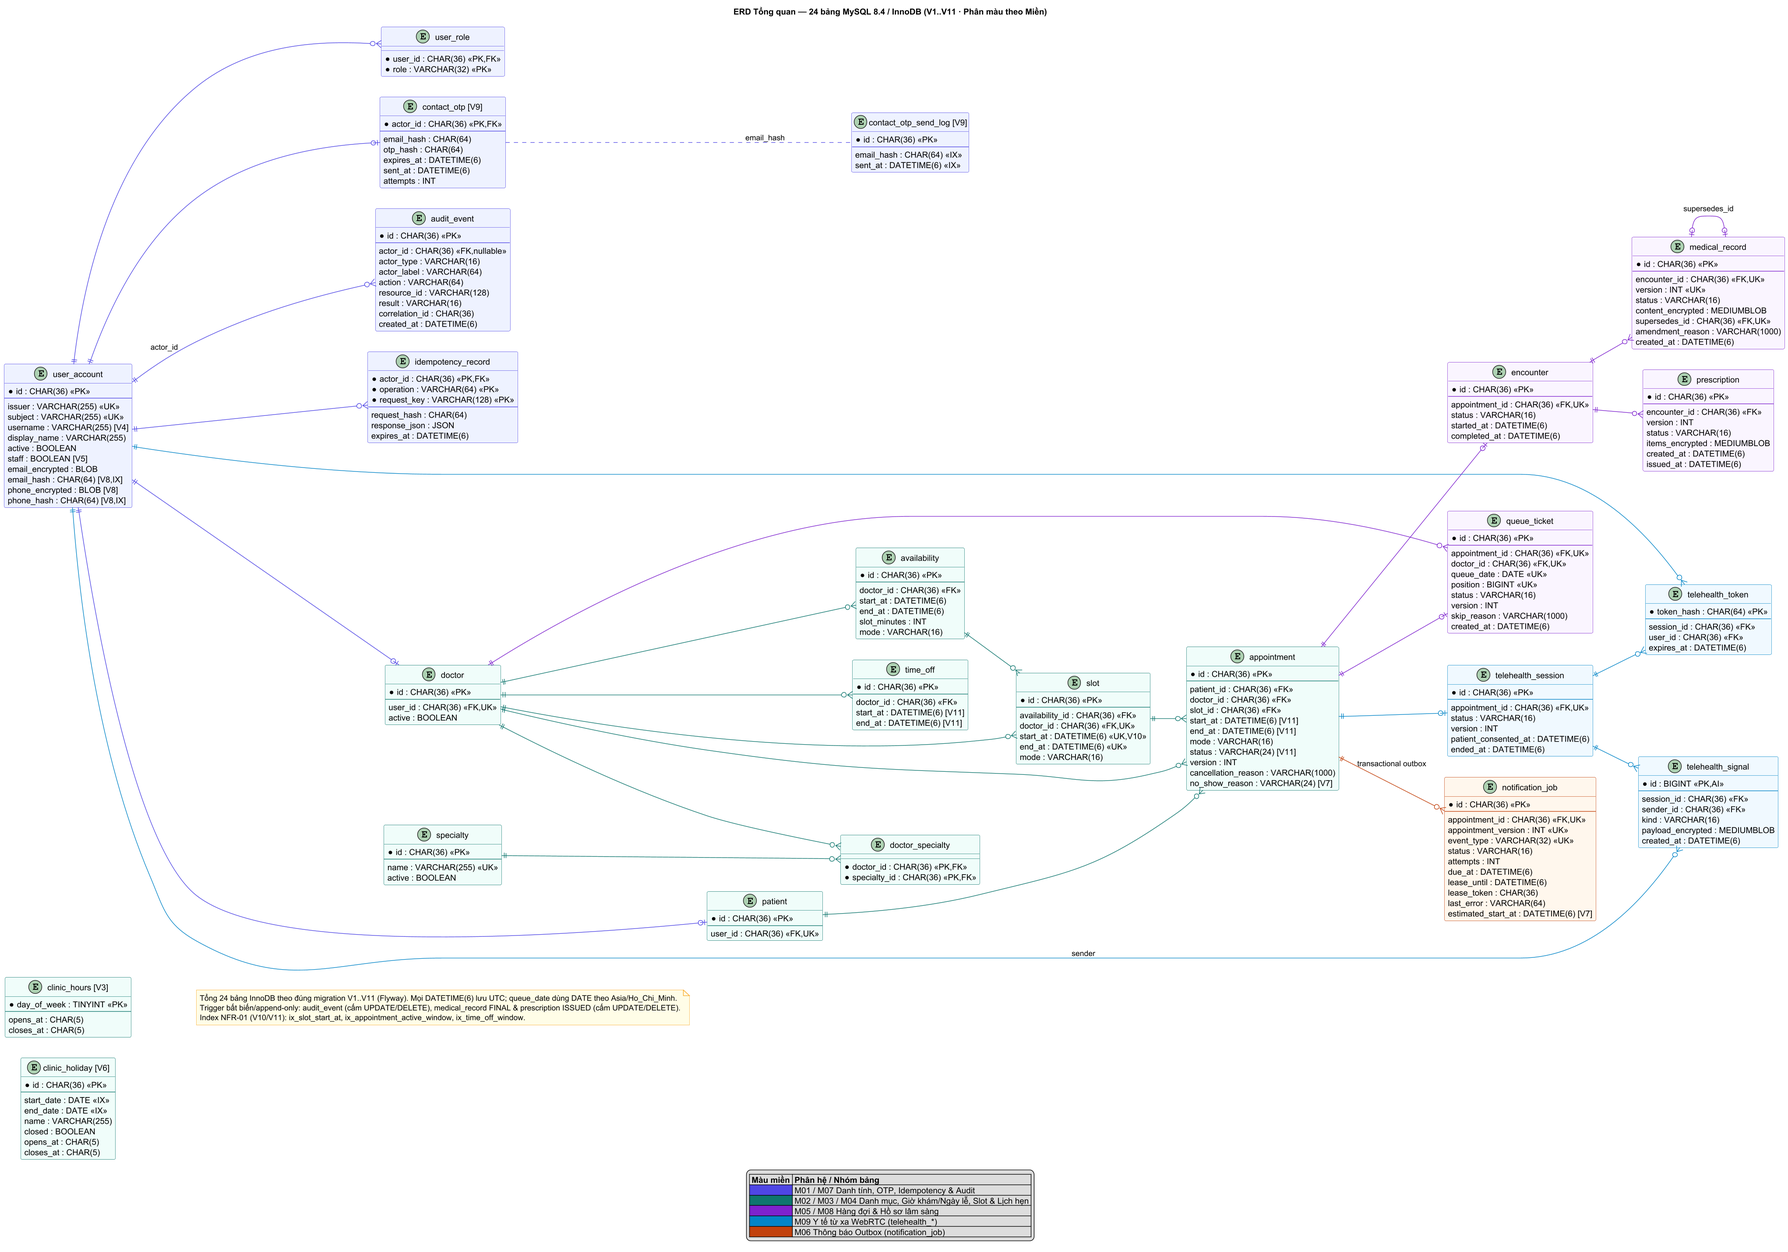
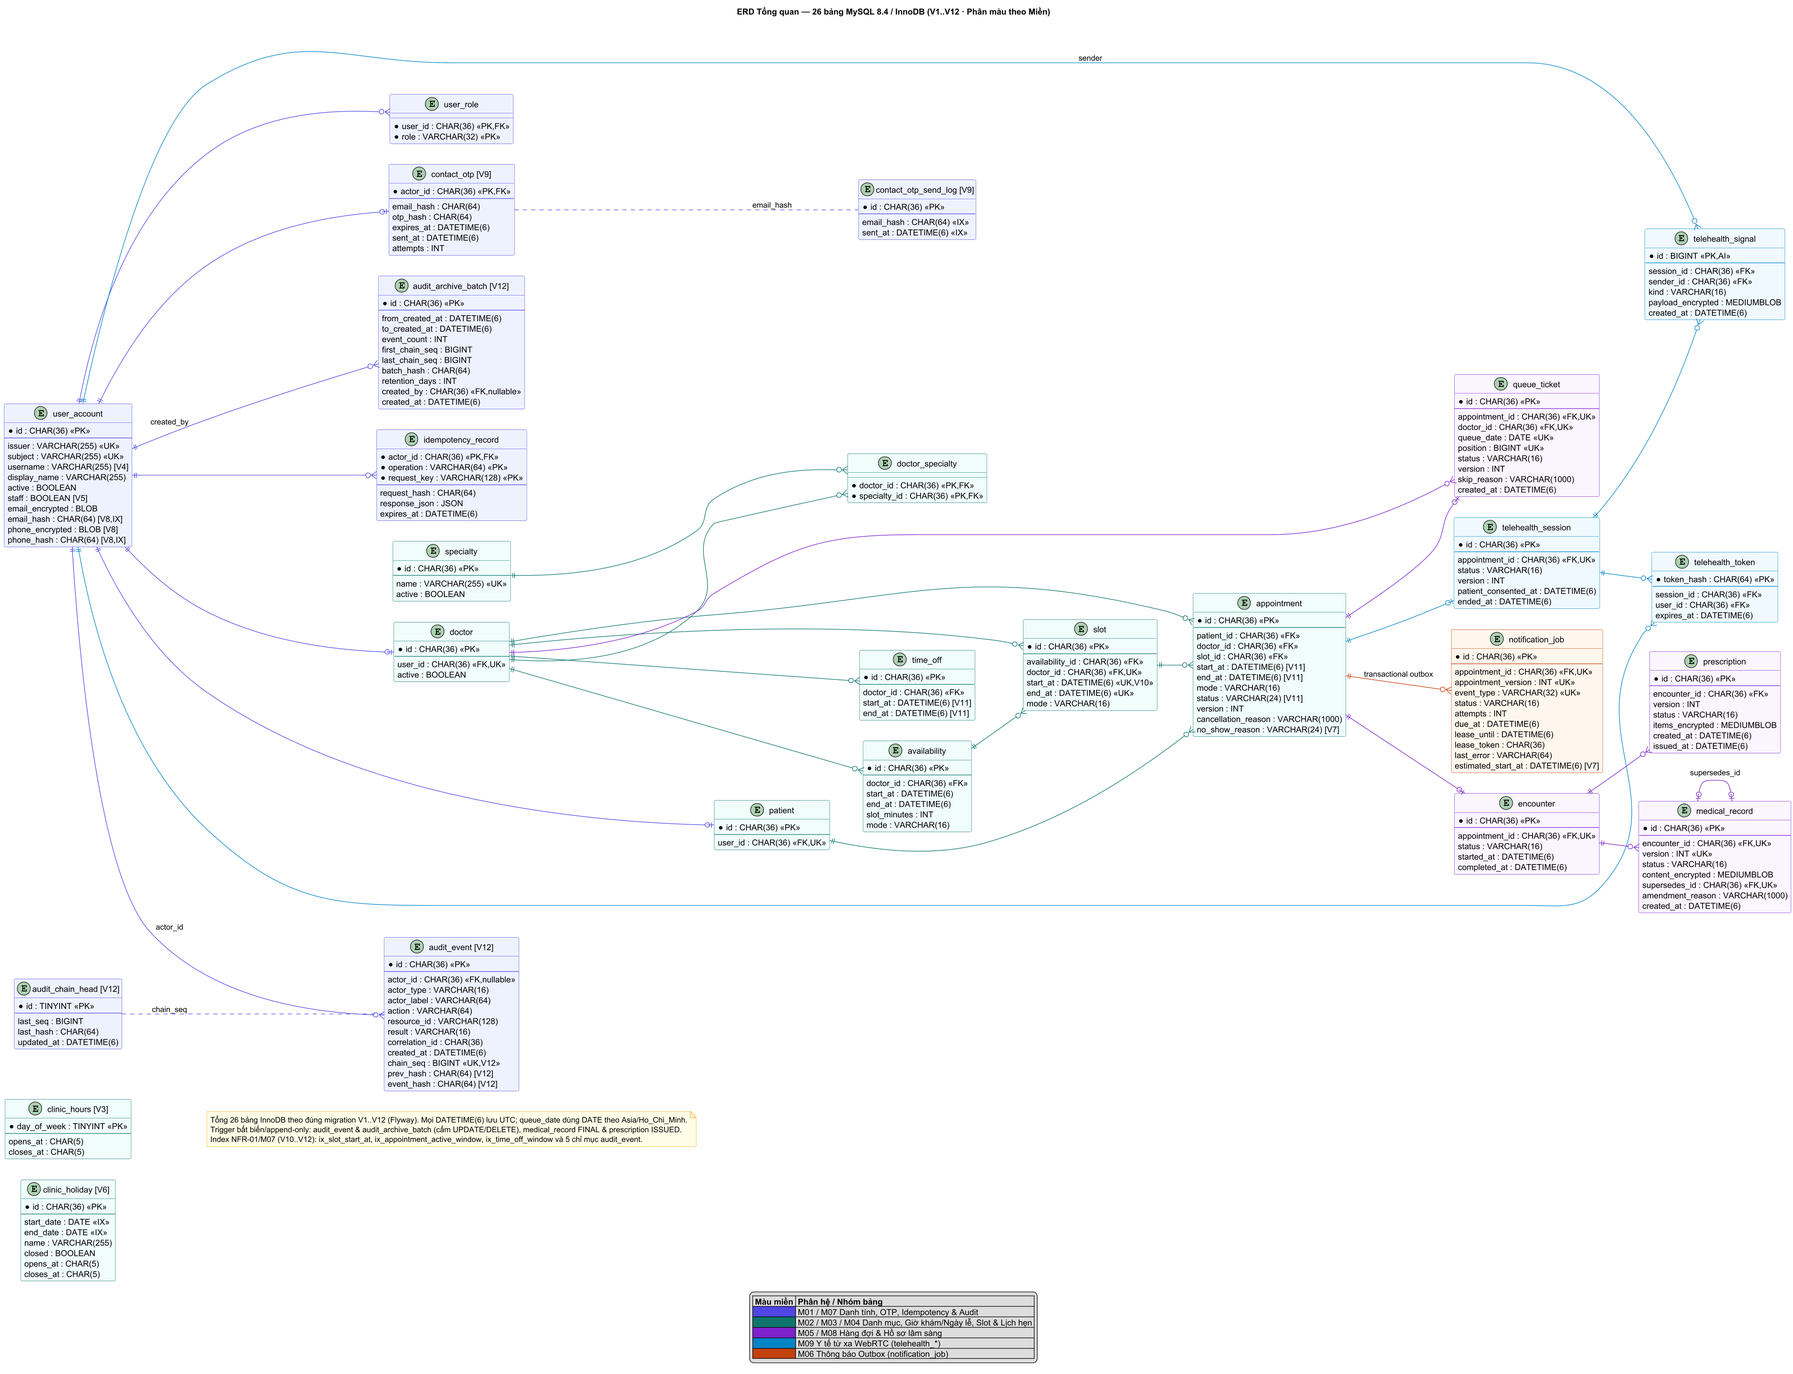
Dong bo so do ERD/Class/Sequence V12 va cap nhat so lieu kiem toan a2b151e

diff --git a/sections/testing.js b/sections/testing.js
@@ -1,4 +1,4 @@
-/* sections/testing.js — Bảng PCL N/B/A, Agent Catalog, Benchmark NFR-01 & Ma trận truy vết (main@327a553, 22/11/2026) */
+/* sections/testing.js — Bảng PCL N/B/A, Agent Catalog, Benchmark NFR-01 & Ma trận truy vết (đồng bộ SE-project-main, 23/11/2026) */
 
 window.SECTION_TESTING = `
 <section class="section" id="pcl">
@@ -6,14 +6,14 @@ window.SECTION_TESTING = `
     <span>📏</span>
     <div><strong>Chuẩn &amp; Kỹ thuật kiểm thử áp dụng:</strong> Phân cấp &amp; truy vết theo <strong>ISO/IEC/IEEE 29119</strong>; phân loại ca theo chuẩn <strong>PCL (<code>N / B / A</code>)</strong>; cấu trúc unit test <strong>Arrange–Act–Assert (AAA)</strong>; tiêu chí NFR tham chiếu <strong>ISO/IEC 25010:2023</strong>, <strong>OWASP ASVS 5.0 / WSTG</strong> và quét tự động <strong>WCAG 2.2 AA</strong> (<code>axe-core</code>).</div>
   </div>
-  <div class="sh"><span class="sh-ic">🧪</span><div class="sh-txt"><h2>Bảng PCL — Kiểm thử theo chuẩn N/B/A</h2><p>30 ca PCL (<code>N</code>=Normal · <code>B</code>=Boundary · <code>A</code>=Abnormal) · CI <code>#43</code> (<code>7c13276</code>) đạt 86/86 test Backend + cổng <code>jacoco:check</code> &ge;60% + 79/79 Vitest</p></div></div>
+  <div class="sh"><span class="sh-ic">🧪</span><div class="sh-txt"><h2>Bảng PCL — Kiểm thử theo chuẩn N/B/A</h2><p>30 ca PCL (<code>N</code>=Normal · <code>B</code>=Boundary · <code>A</code>=Abnormal) · CI xanh 95+ test Backend (MySQL 8.4 + <code>V1..V12</code> + <code>jacoco:check</code> &ge;60%) + 110 Vitest (28 file)</p></div></div>
 
   <div class="sum-bar" style="margin-bottom:16px">
     <div class="sum-item"><div class="n" style="color:var(--ok)">30 / 30</div><div class="l">Ca PCL Đạt ✓</div></div>
-    <div class="sum-item"><div class="n">86</div><div class="l">Backend tests (MySQL 8.4)</div></div>
-    <div class="sum-item"><div class="n">79 / 22</div><div class="l">Frontend Vitest / File</div></div>
+    <div class="sum-item"><div class="n">95+</div><div class="l">Backend tests (MySQL 8.4)</div></div>
+    <div class="sum-item"><div class="n">110 / 28</div><div class="l">Frontend Vitest / File</div></div>
     <div class="sum-item"><div class="n">17</div><div class="l">Playwright (scan/rtc/auth)</div></div>
-    <div class="sum-item"><div class="n" style="color:var(--ok)">24 / 24</div><div class="l">Sổ test Agent PASS</div></div>
+    <div class="sum-item"><div class="n" style="color:var(--ok)">38</div><div class="l">Ca trong Sổ test Agent</div></div>
     <div class="sum-item"><div class="n" style="color:var(--ok)">16 / 16</div><div class="l">NFR Đạt</div></div>
     <div class="sum-item"><div class="n" style="color:var(--ok)">9,37 ms</div><div class="l">NFR-01 Overall p95</div></div>
   </div>
@@ -55,7 +55,7 @@ window.SECTION_TESTING = `
       </tbody>
     </table>
   </div>
-  <p style="font-size:12px;color:var(--txt3);margin-top:12px"><strong style="color:var(--txt2)">Tóm tắt:</strong> 30/30 ca PCL đều đạt (0 lỗi). Toàn bộ 86 test Backend chạy trên MySQL 8.4 Testcontainers và đạt cổng JaCoCo <code>LINE &ge;60%</code>, <code>BRANCH &ge;60%</code> tại CI <code>#43</code>.</p>
+  <p style="font-size:12px;color:var(--txt3);margin-top:12px"><strong style="color:var(--txt2)">Tóm tắt:</strong> 30/30 ca PCL đều đạt (0 lỗi). Toàn bộ 95+ test Backend chạy trên MySQL 8.4 Testcontainers (<code>V1..V12</code>) và đạt cổng JaCoCo <code>LINE &ge;60%</code>, <code>BRANCH &ge;60%</code>.</p>
 </section>
 
 <section class="section" id="nfr-01-bench">
@@ -75,7 +75,7 @@ window.SECTION_TESTING = `
 </section>
 
 <section class="section" id="agent-suite">
-  <div class="sh"><span class="sh-ic">📑</span><div class="sh-txt"><h2>Bộ kiểm thử mở rộng &amp; Xác minh thực địa (<code>AGENT-TC-001..023</code>, <code>TC-N05</code>)</h2><p>24/24 ca trong sổ kiểm thử đều đạt trạng thái <code>PASS</code> sau CI <code>#43</code> (<code>7c13276</code>) và NFR-01 Run <code>44931759747</code> (<code>12740a9</code>)</p></div></div>
+  <div class="sh"><span class="sh-ic">📑</span><div class="sh-txt"><h2>Bộ kiểm thử mở rộng &amp; Xác minh thực địa (<code>AGENT-TC-001..038</code>, <code>TC-N05</code>)</h2><p>Tổng hợp nhóm ca kiểm thử mở rộng trong sổ kiểm thử agent (đồng bộ 23/11/2026, gồm nâng cấp kiểm toán <code>V12</code> và quét Playwright/<code>axe</code> trên <code>/audit</code>)</p></div></div>
   <div class="tbl-wrap">
     <table>
       <thead><tr><th>Nhóm ca kiểm thử</th><th>Mã ca</th><th>Công cụ / Môi trường</th><th>Nội dung &amp; Kết quả xác minh gần nhất</th><th>Trạng thái</th></tr></thead>
@@ -87,14 +87,14 @@ window.SECTION_TESTING = `
         <tr><td><strong>Guard &amp; Post-Deploy Smoke</strong></td><td><code>AGENT-TC-017</code>, <code>018</code></td><td>Vitest + Python + GitHub Actions</td><td><code>guard-redirect.test.tsx</code> (2/2) chuyển về trang chủ vai trò mới khi <code>fromSignin=true</code>; <code>verify-live-demo.py</code> kiểm tra 6/6 chốt HTTPS + OIDC + WebRTC ICE/STUN.</td><td><span class="badge bstat-ok">✓ PASS</span></td></tr>
         <tr><td><strong>TURN/WebRTC, Business Rules &amp; Backup</strong></td><td><code>AGENT-TC-019..021</code></td><td>Python + JUnit + MySQL 8.4 <code>mysqldump</code></td><td>Cấu hình <code>coturn</code> quota <code>4/32</code> &amp; STUN 3478 UDP/TCP phản hồi <code>0x0101</code>; <code>BusinessRulesUnitTest</code> (5/5); <code>BackupRestoreIntegrationTest</code> restore &amp; kiểm FK + AES-GCM (CI <code>#43</code>).</td><td><span class="badge bstat-ok">✓ PASS</span></td></tr>
         <tr><td><strong>Tải chuẩn NFR-01 &amp; Usability</strong></td><td><code>AGENT-TC-022..023</code>, <code>TC-N05</code></td><td>GitHub Actions + MySQL 8.4 + k6 · Điện thoại thật</td><td><code>Nfr01LoadHarnessTests</code> (4/4); k6 50 VU &times; 15m đạt <code>p95 = 9,37 ms</code>; <code>TC-N05</code> nhóm thử thực tế trên điện thoại (không lưu biên bản bấm giờ riêng).</td><td><span class="badge bstat-ok">✓ PASS</span></td></tr>
-        <tr><td><strong>Nâng cấp Kiểm toán M07 (3 ưu tiên)</strong></td><td><code>AGENT-TC-037..038</code></td><td>JUnit + Mockito + Vitest + RTL (<code>AuditHardeningUnitTest</code>, <code>audit-page.test.tsx</code>)</td><td>Tách khóa <code>K_audit</code>, chuỗi băm <code>HMAC-SHA256-CHAIN-V1</code> phát hiện đủ 4 lỗi <code>TAMPERED</code>, lọc server-side, phân trang con trỏ chống trôi trang, nhãn tác nhân an toàn, chuẩn hóa hành động VN, Cách 1 rút gọn UUID 2 cột, CSV BOM chống formula injection và niêm phong lô <code>audit_archive_batch</code>.</td><td><span class="badge bstat-ok">✓ PASS</span></td></tr>
+        <tr><td><strong>Nâng cấp Kiểm toán M07 (3 ưu tiên)</strong></td><td><code>AGENT-TC-037..038</code></td><td>JUnit + Mockito + Vitest + RTL + Playwright/<code>axe</code> (<code>AuditHardeningUnitTest</code>, <code>audit-page.test.tsx</code>)</td><td>Tách khóa <code>K_audit</code>, chuỗi băm <code>HMAC-SHA256-CHAIN-V1</code> xác minh trong snapshot <code>REPEATABLE READ</code> phát hiện đủ 4 lỗi <code>TAMPERED</code> (gồm <code>chain_seq &le; 0</code>) và cảnh báo khi <code>truncated</code>, lọc server-side kể cả từ khóa tiếng Việt, phân trang con trỏ chống trôi trang, nhãn tác nhân an toàn, chuẩn hóa hành động VN, Cách 1 rút gọn UUID 2 cột, CSV BOM đủ <code>Mã sự kiện (UUID)</code> chống formula injection, niêm phong tuần tự dưới khóa <code>FOR UPDATE</code> vào <code>audit_archive_batch</code> và quét Playwright/<code>axe</code> đạt 0 tràn ngang &amp; 0 vi phạm.</td><td><span class="badge bstat-ok">✓ PASS</span></td></tr>
       </tbody>
     </table>
   </div>
 </section>
 
 <section class="section" id="trace">
-  <div class="sh"><span class="sh-ic">🔗</span><div class="sh-txt"><h2>Ma trận truy vết tổng hợp (27 FR &rarr; UC &rarr; NFR &rarr; Bằng chứng)</h2><p>Đối chiếu <code>docs/requirements/traceability-matrix.md</code> tại <code>main@327a553</code> · Xem chi tiết tra cứu tại trang <a href="requirements.html#review-matrix">Yêu cầu</a></p></div></div>
+  <div class="sh"><span class="sh-ic">🔗</span><div class="sh-txt"><h2>Ma trận truy vết tổng hợp (27 FR &rarr; UC &rarr; NFR &rarr; Bằng chứng)</h2><p>Đối chiếu <code>docs/requirements/traceability-matrix.md</code> (23/11/2026) · Xem chi tiết tra cứu tại trang <a href="requirements.html#review-matrix">Yêu cầu</a></p></div></div>
   <div class="tbl-wrap">
     <table>
       <thead><tr><th>FR</th><th>UC</th><th>Thao tác API chính</th><th>NFR liên quan</th><th>Tình trạng &amp; Bằng chứng</th></tr></thead>

diff --git a/sections/diagrams.js b/sections/diagrams.js
@@ -99,8 +99,8 @@ window.SECTION_DIAGRAMS = `
       <div class="ic-label">UC-15/16 Thông báo bất đồng bộ (<code>notification_job</code>)</div>
     </div>
     <div class="img-card" onclick="lb('assets/design/sequence-diagrams/audit-fail-closed.png')">
-      <img src="assets/design/sequence-diagrams/audit-fail-closed.png" alt="M07 Ghi Audit Fail-Closed, DENIED độc lập và Trigger bất biến" onerror="this.style.height='100px';this.alt='Không tìm thấy ảnh'">
-      <div class="ic-label">M07 Audit Fail-Closed (<code>MANDATORY</code>), <code>DENIED</code> &amp; Trigger</div>
+      <img src="assets/design/sequence-diagrams/audit-fail-closed.png" alt="M07 Ghi Audit Fail-Closed, chuỗi băm HMAC-SHA256, kiểm chứng và lưu trữ V12" onerror="this.style.height='100px';this.alt='Không tìm thấy ảnh'">
+      <div class="ic-label">M07 Audit Fail-Closed, chuỗi băm <code>HMAC-SHA256-CHAIN-V1</code>, kiểm chứng &amp; lưu trữ (<code>V12</code>)</div>
     </div>
     <div class="img-card" onclick="lb('assets/design/sequence-diagrams/telehealth.png')">
       <img src="assets/design/sequence-diagrams/telehealth.png" alt="UC-22/23/24 Phiên khám từ xa WebRTC" onerror="this.style.height='100px';this.alt='Không tìm thấy ảnh'">
@@ -158,11 +158,11 @@ window.SECTION_DIAGRAMS = `
 </section>
 
 <section class="section" id="class-diag">
-  <div class="sh"><span class="sh-ic">🧱</span><div class="sh-txt"><h2>Class Diagram (1 sơ đồ PIM)</h2><p>Mô hình miền UML 2.5 · đồng bộ toàn bộ 24 thực thể từ migration <code>V1..V11</code></p></div></div>
+  <div class="sh"><span class="sh-ic">🧱</span><div class="sh-txt"><h2>Class Diagram (1 sơ đồ PIM)</h2><p>Mô hình miền UML 2.5 · đồng bộ toàn bộ 26 thực thể từ migration <code>V1..V12</code> (gồm <code>AuditChainHead</code> &amp; <code>AuditArchiveBatch</code>)</p></div></div>
   <div class="img-grid">
     <div class="img-card" onclick="lb('assets/design/class-diagram/class-diagram.png')" style="max-width:760px">
       <img src="assets/design/class-diagram/class-diagram.png" alt="Class Diagram Domain Model" onerror="this.style.height='160px';this.alt='Không tìm thấy ảnh'">
-      <div class="ic-label">Domain Model (PIM): <code>UserAccount</code>, <code>ContactOtp</code>, <code>ClinicHours/Holiday</code>, <code>Doctor/Slot/Appointment</code>, <code>QueueTicket/Encounter/MedicalRecord/Prescription</code>, <code>TelehealthSession/Token/Signal</code>, <code>NotificationJob/AuditEvent/IdempotencyRecord</code></div>
+      <div class="ic-label">Domain Model (PIM): <code>UserAccount</code>, <code>ContactOtp</code>, <code>ClinicHours/Holiday</code>, <code>Doctor/Slot/Appointment</code>, <code>QueueTicket/Encounter/MedicalRecord/Prescription</code>, <code>TelehealthSession/Token/Signal</code>, <code>NotificationJob/AuditEvent/AuditChainHead/AuditArchiveBatch/IdempotencyRecord</code></div>
     </div>
   </div>
 </section>
@@ -171,8 +171,8 @@ window.SECTION_DIAGRAMS = `
   <div class="sh"><span class="sh-ic">🗄</span><div class="sh-txt"><h2>Entity Relationship Diagram (4 sơ đồ)</h2><p>Cấu trúc thật <strong>26 bảng MySQL 8.4 / InnoDB</strong> theo <code>Flyway V1..V12</code> (bổ sung chuỗi băm <code>audit_chain_head</code> &amp; lưu trữ <code>audit_archive_batch</code> ở <code>V12</code>) · 4 góc nhìn (IE / Crow's Foot)</p></div></div>
   <div class="img-grid">
     <div class="img-card" onclick="lb('assets/design/database/erd.png')">
-      <img src="assets/design/database/erd.png" alt="ERD Tổng quan 24 bảng" onerror="this.style.height='120px';this.alt='Không tìm thấy ảnh'">
-      <div class="ic-label">ERD Tổng quan — đủ 24 bảng <code>V1..V11</code> + trigger bất biến &amp; index hiệu năng</div>
+      <img src="assets/design/database/erd.png" alt="ERD Tổng quan 26 bảng" onerror="this.style.height='120px';this.alt='Không tìm thấy ảnh'">
+      <div class="ic-label">ERD Tổng quan — đủ 26 bảng <code>V1..V12</code> + trigger bất biến, chuỗi băm &amp; index hiệu năng</div>
     </div>
     <div class="img-card" onclick="lb('assets/design/database/erd-scheduling.png')">
       <img src="assets/design/database/erd-scheduling.png" alt="ERD Nhóm Đặt lịch" onerror="this.style.height='120px';this.alt='Không tìm thấy ảnh'">
@@ -184,7 +184,7 @@ window.SECTION_DIAGRAMS = `
     </div>
     <div class="img-card" onclick="lb('assets/design/database/erd-infrastructure.png')">
       <img src="assets/design/database/erd-infrastructure.png" alt="ERD Nhóm Hạ tầng" onerror="this.style.height='120px';this.alt='Không tìm thấy ảnh'">
-      <div class="ic-label">ERD — Danh tính, OTP (<code>V9</code>), Outbox <code>notification_job</code> &amp; Kiểm toán (<code>M01–M06–M07</code>)</div>
+      <div class="ic-label">ERD — Danh tính, OTP (<code>V9</code>), Outbox <code>notification_job</code> &amp; Kiểm toán chuỗi băm/lưu trữ (<code>M01–M06–M07</code>, <code>V12</code>)</div>
     </div>
   </div>
 </section>

diff --git a/sections/overview.js b/sections/overview.js
@@ -20,7 +20,7 @@ window.SECTION_OVERVIEW = `
     <div class="ov-card"><h4>Xác thực &amp; IdP</h4><p>Keycloak 26.4 (OIDC Authorization Code + PKCE S256) · Google OAuth2 · Quên mật khẩu SMTP · Khóa tạm 5 lần sai · OTP email 6 chữ số</p></div>
     <div class="ov-card"><h4>Hạ tầng &amp; Vận hành</h4><p>Azure VM HTTPS (Caddy 2 + Nginx 1.28 rate-limit OTP 10r/m + coturn TURN 3478) · CI 5 job + rollback tự động + <code>post-deploy-smoke</code></p></div>
     <div class="ov-card"><h4>Kiểm thử tự động</h4><p>95+ test Backend (Testcontainers MySQL + Unit + <code>jacoco:check</code> &ge;60%) · 110 Vitest (28 file) · 17 Playwright · 47 Python unittest · k6 50 VU</p></div>
-    <div class="ov-card"><h4>Phiên bản đối chiếu</h4><p>Nhánh <code>main@3eb59d7</code> (<code>V1..V12</code>) · 23/11/2026 · Demo HTTPS: <code>cliniccare-demo.duckdns.org</code> &amp; <code>cliniccare-auth.duckdns.org</code></p></div>
+    <div class="ov-card"><h4>Phiên bản đối chiếu</h4><p>Nhánh <code>main@a2b151e</code> (<code>V1..V12</code>) · 23/11/2026 · Demo HTTPS: <code>cliniccare-demo.duckdns.org</code> &amp; <code>cliniccare-auth.duckdns.org</code></p></div>
   </div>
 
   <div class="stack-grid">
@@ -54,7 +54,7 @@ window.SECTION_OVERVIEW = `
         <tr><td><strong>Đặc tả Use Case (UC)</strong></td><td><strong>Alistair Cockburn — Fully Dressed Use Case</strong> + <strong>OMG UML 2.5</strong></td><td>Mỗi ca trong 27 UC có đủ: Tác nhân, Tiền điều kiện, Kích hoạt, Luồng chính/thay thế, Ngoại lệ, Hậu điều kiện tại <a href="usecases.html">trang Use Case</a>.</td></tr>
         <tr><td><strong>Tiêu chí chấp nhận (AC)</strong></td><td><strong>BDD / Gherkin</strong> (<code>Given – When – Then</code>)</td><td>Chuẩn hóa kịch bản kiểm chứng từng FR trong <code>docs/requirements/acceptance-criteria.md</code>.</td></tr>
         <tr><td><strong>Chất lượng &amp; Phi chức năng (NFR)</strong></td><td><strong>ISO/IEC 25010:2023</strong></td><td>Phân loại 16 NFR theo hiệu năng, bảo mật, tin cậy, khả dụng, tương thích, bảo trì và an toàn vận hành.</td></tr>
-        <tr><td><strong>Kiến trúc &amp; Mô hình hóa</strong></td><td><strong>OMG UML 2.5</strong> · <strong>Kruchten 4+1 Views</strong> · <strong>IE / Crow's Foot ERD</strong></td><td>38 sơ đồ tại <a href="diagrams.html">Sơ đồ UML</a> (đủ M01–M09, CI/CD rollback, Class PIM, ERD 24 bảng, Deployment Docker/Azure).</td></tr>
+        <tr><td><strong>Kiến trúc &amp; Mô hình hóa</strong></td><td><strong>OMG UML 2.5</strong> · <strong>Kruchten 4+1 Views</strong> · <strong>IE / Crow's Foot ERD</strong></td><td>38 sơ đồ tại <a href="diagrams.html">Sơ đồ UML</a> (đủ M01–M09, CI/CD rollback, Class PIM 26 thực thể, ERD 26 bảng <code>V1..V12</code>, Deployment Docker/Azure).</td></tr>
         <tr><td><strong>Hợp đồng API &amp; Thời gian</strong></td><td><strong>OpenAPI 3.1.0</strong> (JSON Schema 2020-12) · <strong>RFC 9457 / 7807</strong> · <strong>ISO 8601</strong></td><td>55 paths / 66 ops, lỗi <code>ProblemDetail</code>, DB lưu UTC <code>DATETIME(6)</code> và hiển thị <code>Asia/Ho_Chi_Minh</code>.</td></tr>
         <tr><td><strong>Xác thực, Bảo mật &amp; Truyền thông</strong></td><td><strong>OAuth 2.0 (RFC 6749)</strong> · <strong>OIDC 1.0</strong> · <strong>PKCE S256 (RFC 7636)</strong> · <strong>JWT (RFC 7519)</strong> · <strong>NIST SP 800-38D (AES-256-GCM)</strong> · <strong>RFC 2104 (HMAC-SHA256)</strong> · <strong>OWASP ASVS 5.0 / WSTG</strong> · <strong>WebRTC / STUN (RFC 5389) / TURN (RFC 5766)</strong></td><td>PKCE + Google OAuth2, OTP đổi email, blind index <code>K_hmac</code> tách khóa, header HSTS/CSP/XFO, rate-limit <code>10r/m</code> và <code>coturn</code> :3478.</td></tr>
         <tr><td><strong>Kiểm thử &amp; Tiếp cận</strong></td><td><strong>ISO/IEC/IEEE 29119</strong> · <strong>PCL (<code>N / B / A</code>)</strong> · <strong>Arrange–Act–Assert (AAA)</strong> · <strong>WCAG 2.2 AA</strong> (<code>axe-core</code>)</td><td>Truy vết 2 chiều tại <a href="testing.html">Kiểm thử</a> (EP/BVA/State/Branch/Fault injection). Quét tự động hỗ trợ rà soát WCAG, không thay thế kiểm định thủ công.</td></tr>

diff --git a/sections/requirements.js b/sections/requirements.js
@@ -770,7 +770,7 @@ sequenceDiagram
           <td><strong>NFR-10</strong><span class="fr-arr" id="arr-NFR-10">▸</span></td>
           <td>Công nghệ chuẩn, OpenAPI 3.1 &amp; Quản lý Git</td>
           <td>React + TS / Spring Boot / MySQL 8.4; OpenAPI 3.1 khớp 100% mã nguồn; UML trong Git</td>
-          <td>Job <code>api-contract</code> (<code>openapi_spec_validator</code>) xanh trên CI: 50 đường dẫn / 61 thao tác, phủ đủ <code>FR-01..27</code></td>
+          <td>Job <code>api-contract</code> (<code>openapi_spec_validator</code>) xanh trên CI: 55 đường dẫn / 66 thao tác, phủ đủ <code>FR-01..27</code></td>
           <td><span class="badge bstat-ok">✓ Đạt</span></td>
         </tr>
         <tr class="fr-detail" id="detail-NFR-10"><td colspan="5"><div class="fr-dcard">
